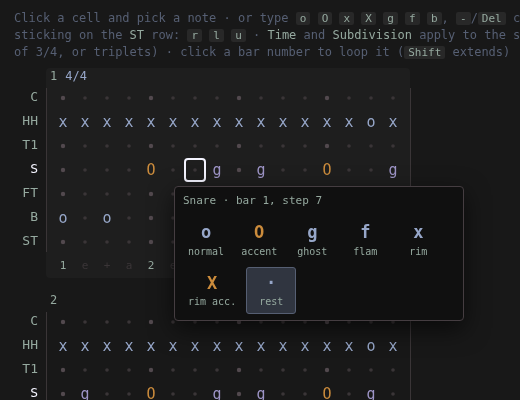
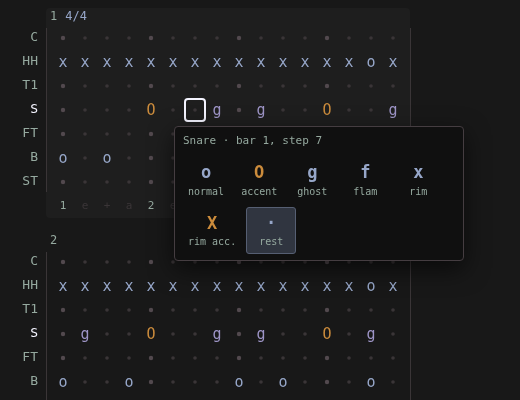
added dropdown

diff --git a/static/index.html b/static/index.html
@@ -55,6 +55,7 @@
   }
   header { background: var(--bg-1); }
   .toolbar { padding: 6px 14px; }
+  body:not(.menu) .toolbar { display: none; }
   .brand { color: var(--niagara); font-weight: 700; letter-spacing: .02em; margin-right: 4px; }
   .brand span { color: var(--quartz); font-weight: 400; }
   .group { display: flex; align-items: center; gap: 5px; flex-wrap: wrap; }
@@ -131,7 +132,11 @@
   #hl-cursor { border: 1px solid #565f73; }
   #play-line { position: absolute; pointer-events: none; display: none; width: 2px; margin-left: -1px; background: #f43841; }
   #sheet-msg { color: #c73c3f; font-size: 12px; padding: 4px 12px; }
-  .legend { border-top: 1px solid var(--bg1); padding: 10px 14px 12px; color: var(--quartz); font-size: 12px; }
+  .legend { border-top: 1px solid var(--bg1); padding: 6px 14px; color: var(--quartz); font-size: 12px; }
+  .legend summary { cursor: pointer; color: var(--niagara-1); font-size: 11px; user-select: none; }
+  .legend summary:hover { color: var(--quartz); }
+  .legend[open] summary { margin-bottom: 8px; }
+  .legend .hint { display: block; padding: 0 0 10px; }
   .legend dl { display: grid; grid-template-columns: repeat(auto-fill, minmax(150px, 1fr)); gap: 2px 14px; margin: 0 0 8px; }
   .legend div { display: flex; gap: 8px; }
   .legend dt { color: var(--niagara); min-width: 22px; }
@@ -155,6 +160,7 @@
 <body>
 <header>
   <div class="brand">drums4all<span>/</span></div>
+  <button id="t-menu" title="Show the tab and bar menus">☰ Menu</button>
   <div class="group">
     <button id="play" title="Space">▶ Play</button>
     <button data-bpm="-1" title="PgDn">−</button>
@@ -253,14 +259,15 @@
 
 <main>
   <section class="pane" id="grid-pane">
-    <div class="hint">Click a cell and pick a note · or type <kbd>o</kbd> <kbd>O</kbd> <kbd>x</kbd> <kbd>X</kbd> <kbd>g</kbd> <kbd>f</kbd> <kbd>b</kbd>,
-      <kbd>-</kbd>/<kbd>Del</kbd> clears, arrows move · sticking on the <b>ST</b> row: <kbd>r</kbd> <kbd>l</kbd> <kbd>u</kbd> · <b>Time</b> and <b>Subdivision</b> apply to the selected bar (e.g. one bar of 3/4, or triplets)
-      · click a bar number to loop it (<kbd>Shift</kbd> extends)</div>
     <div id="grid-wrap">
       <canvas id="grid" tabindex="0"></canvas>
       <div id="picker"></div>
     </div>
-    <div class="legend" id="legend">
+    <details class="legend" id="legend">
+      <summary>legend and keys</summary>
+      <div class="hint">Click a cell and pick a note · or type <kbd>o</kbd> <kbd>O</kbd> <kbd>x</kbd> <kbd>X</kbd> <kbd>g</kbd> <kbd>f</kbd> <kbd>b</kbd>,
+      <kbd>-</kbd>/<kbd>Del</kbd> clears, arrows move · sticking on the <b>ST</b> row: <kbd>r</kbd> <kbd>l</kbd> <kbd>u</kbd> · <b>Time</b> and <b>Subdivision</b> apply to the selected bar (e.g. one bar of 3/4, or triplets)
+      · click a bar number to loop it (<kbd>Shift</kbd> extends)</div>
       <h4>instruments</h4>
       <dl>
         <div><dt>C</dt><dd>crash</dd></div>
@@ -285,7 +292,7 @@
         <div><dt>b</dt><dd>on R: bell</dd></div>
         <div><dt>·</dt><dd>rest</dd></div>
       </dl>
-    </div>
+    </details>
     <div id="text-wrap">
       <textarea id="editor" spellcheck="false" autocomplete="off" aria-label="Tab as text"></textarea>
       <div id="error"></div>
@@ -874,6 +881,12 @@ document.querySelectorAll("[data-bpm]").forEach(b =>
   b.addEventListener("click", e => setBpm(S.bpm + +b.dataset.bpm * (e.shiftKey ? 5 : 1))));
 $("bpm").addEventListener("change", e => setBpm(e.target.value));
 $("clear-sel").addEventListener("click", () => setSelection(null));
+// The tab and bar menus start hidden, so the page shows just the grid and the sheet.
+$("t-menu").addEventListener("click", () => {
+  const open = document.body.classList.toggle("menu");
+  $("t-menu").classList.toggle("on", open);
+  $("t-menu").setAttribute("aria-pressed", open);
+});
 for (const [id, key] of [["ramp-step", "rampStep"], ["ramp-every", "rampEvery"], ["ramp-max", "rampMax"]]) {
   $(id).addEventListener("change", e => { S[key] = Math.max(1, +e.target.value || S[key]); e.target.value = S[key]; });
 }

diff --git a/CLAUDE.md b/CLAUDE.md
@@ -37,6 +37,9 @@ Convert PDFs with `pdftoppm` to look at them. Audio can't be heard in tests: che
 - Front end: the tab menu groups tabs by folder (`<optgroup>`). The user did NOT want a folder field to move tabs:
   folders are made on disk; the UI only shows them and the `New` menu creates a tab with no folder or in an existing
   folder. Import goes to the open tab's folder.
+- The two toolbars (tab and bar menus) start hidden behind the header's `Menu` button (`body.menu`), and the hint
+  + legend under the grid is a `<details>` closed by default: the user wants to see only the notes when zoomed in.
+  Both start closed on every load.
 - "Stop after N [times|minutes]" is one control (the user found a separate timer + repeat counter confusing):
   `S.limit`/`S.limitUnit`, countdown box `#limit-left`, code in the "stop after" section. The last BPM of each tab is kept per browser (`drums4all.bpm` in localStorage)
   and restored when it opens; the file's `Tempo:` stays as written.

diff --git a/README.md b/README.md
@@ -55,7 +55,9 @@ to `http://<computer-ip>:8484`.
 - Each tab remembers the BPM you last practised it at.
 - Export to PDF, MIDI, WAV and `.txt`.
 
-Press `Space` to play or stop. Hover the buttons to see their keyboard shortcuts.
+The tab and bar menus (New, Export, Time, Subdivision, Text…) are behind the **Menu** button, so normally you
+only see the notes. The legend under the grid opens with a click. Press `Space` to play or stop. Hover the
+buttons to see their keyboard shortcuts.
 
 ## Tab format
 
